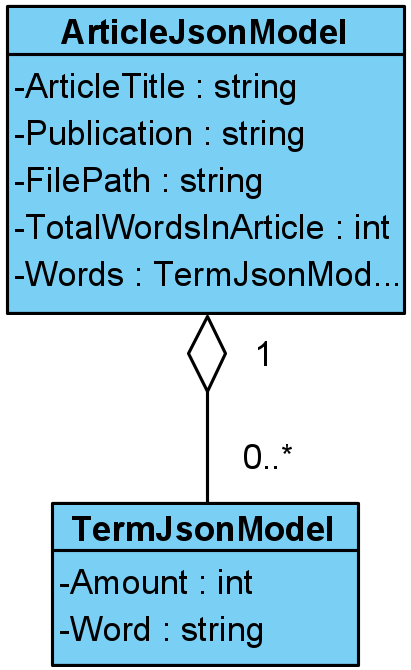
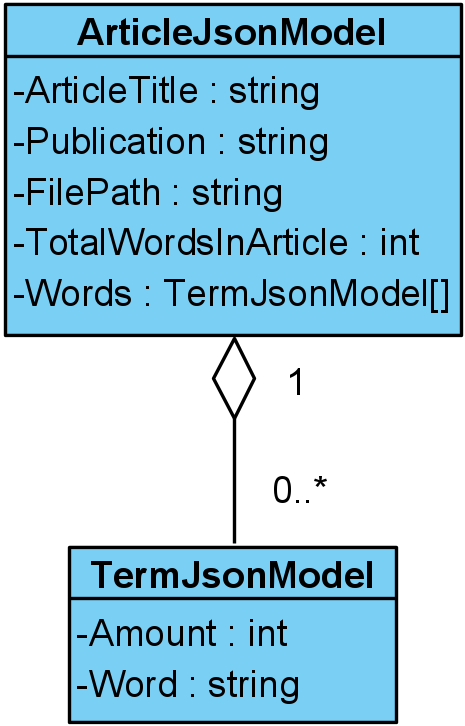
described communication models

diff --git a/sections/Chapter 5 Sprint 3/Models.tex b/sections/Chapter 5 Sprint 3/Models.tex
@@ -2,42 +2,44 @@
 To implement an API for the WordCount database we needed models for the objects we would be sending and recieving from the other layers. We also needed models corresponding to the database tables to access it through EF Core. The models we have created for communication with other layers and for data access will be described in the following sections.
 
 \subsubsection*{Communication models}
-For communication between our layer and the other layers, we have made 3 input, and 1 response model. These models correspond to the JSON objects we expect to send or recieve from other layers when they attempt to insert or retrive data from the database. 
+For communication between our layer and the other layers, we have made 3 input, and 1 response model. These models correspond to the JSON objects we expect to send or recieve from other layers when they attempt to insert or retrive data from the database. When a JSON object is recieved it is parsed into an object from our model, which can then be used to add data to the database.
 \\
+
 \textbf{Input models}\\
 % ArticleJsonModel
 % TermJsonModel
-
-The first input model is the ArticleJsonModel which can be seen in figure \ref{ArticlJsonModel}. Article
+The first input model is the ArticleJsonModel which can be seen in figure \ref{ArticlJsonModel}. An article consistst of a title, a publisher, a filepath, the number of words in an article, and an array containing all the words in the article. The words are of the type \texttt{TermJsonModel} which has the word itself and how many times it occurs in the article.
+This model is used when the database recieves a JSON object through our endpoint, which corresponds to the ArticleJsonModel. after the JSON object has been converted to a \texttt{ArticleJsonModel}, the data from the article can be inserted into the \texttt{WordCount} database using EF Core.
 
 \begin{figure}[H]
     \centering
-    \includegraphics[scale=0.25]{Images/jsonArticleModel.PNG}
-    \caption{ArticlJsonModel}
+    \includegraphics[scale=0.5]{Images/jsonArticleModel.PNG}
+    \caption{Diagram of the \texttt{ArticlJsonModel} and the \texttt{TermJsonModel}}
     \label{ArticlJsonModel}
 \end{figure}
-
 % JsonSchemaInputModel
+The second input model is the \texttt{JsonSchemaInputModel} which can be seen in figure \ref*{JsonSchemaInputModel}. The \texttt{JsonSchemaInputModel} contains a name of the JSON schema, and a body which is the JSON schema itself. The \texttt{JsonSchemaInputModel} is used when the other layers tries to add JSON schemas to the \texttt{WordCount} database which is then later used to validate their future input. How the validation is done will be described in section \ref*{}. \todo{insert ref to validation section}.
 
 \begin{figure}[H]
     \centering
     \includegraphics[scale=0.25]{Images/JsonSchemaInputModel.png}
-    \caption{JsonSchemaModel}
-    \label{JsonSchemaModel}
+    \caption{Diagram of the \texttt{JsonSchemaInputModel}}
+    \label{JsonSchemaInputModel}
 \end{figure}
 
 \textbf{Response Models}\\
 % FileIdResponse
+The response model \texttt{FileIdResponse} which can be seen in figure \ref*{FileIdResponse}is used when a request for the location of an article is made. After the location has been queried on the \texttt{WordCount} database, it is put into the response model which is returned as a JSON object.
 
 \begin{figure}[H]
     \centering
     \includegraphics[scale=0.25]{Images/FileIdResponse.png}
-    \caption{FileIdResponse}
+    \caption{Diagram of the \texttt{FileIdResponse} model}
     \label{FileIdResponse}
 \end{figure}
 
 \subsubsection*{Data access models}
-We also had to create models for accessing the database through EF Core.
+To use EF Core for data access we also had to implement models of the tables in the database, which can then be used to insert and query data on the database.
 
 % Article
 % publisher
